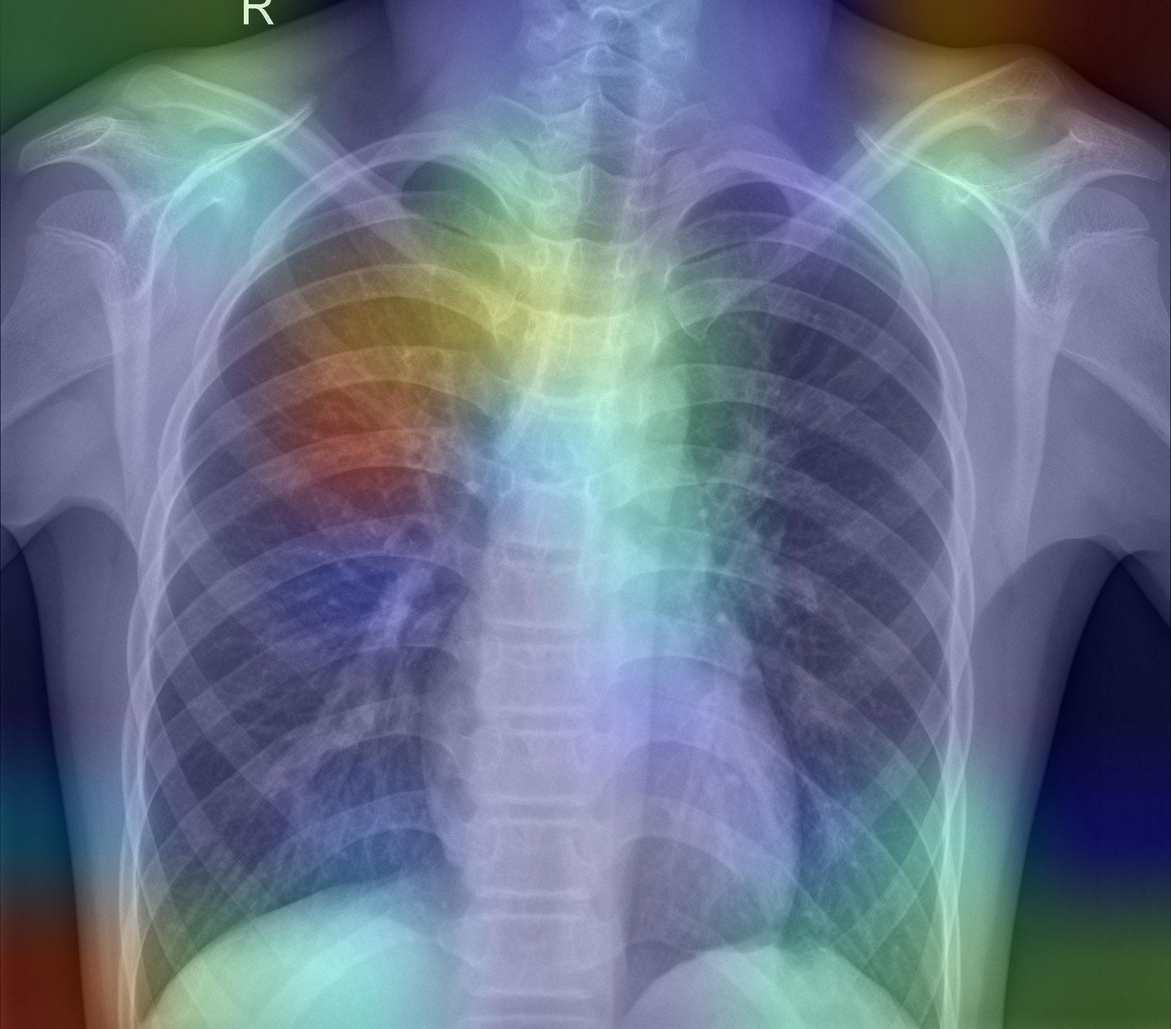
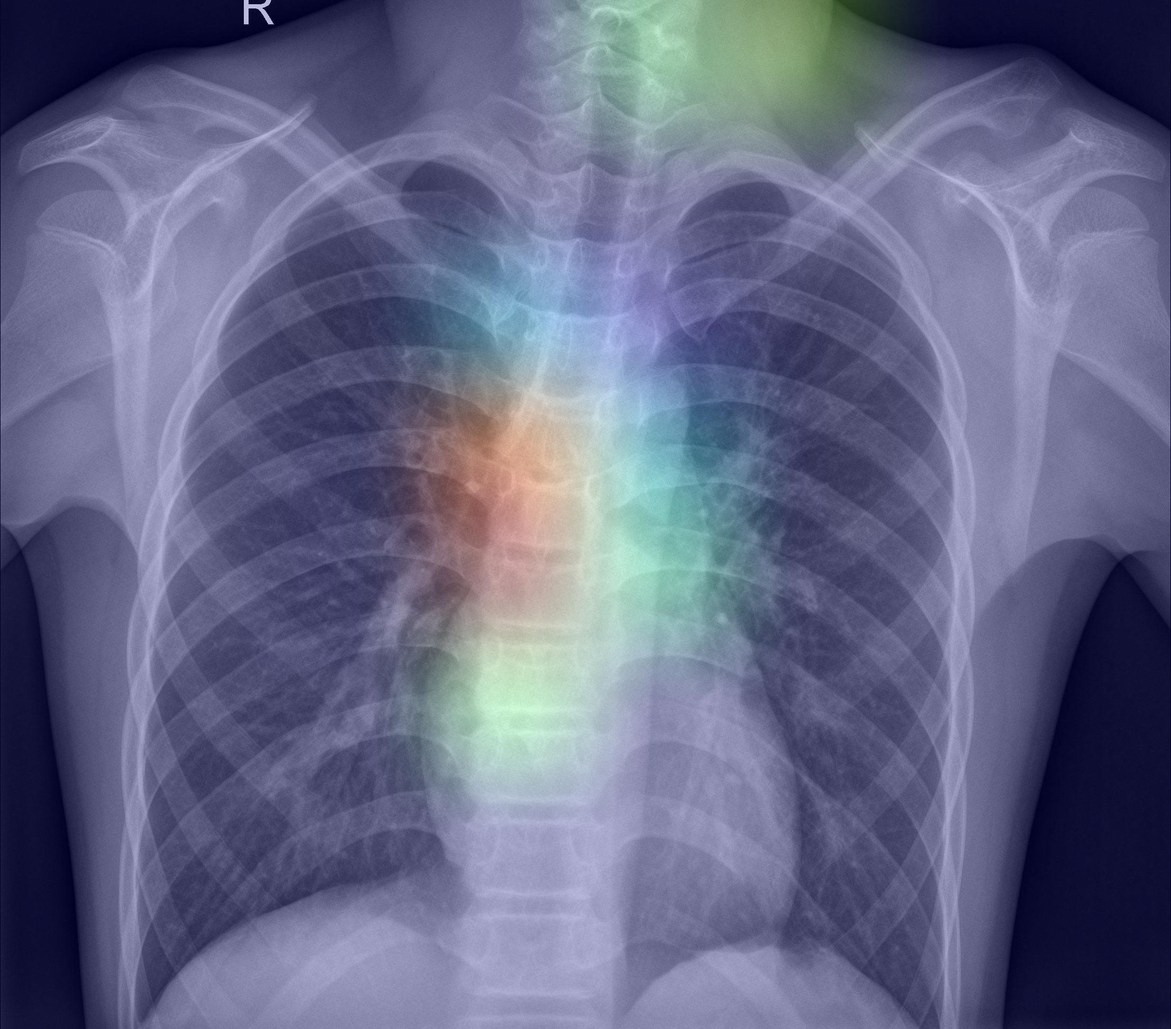
Update for GradCam

diff --git a/grad_cam.py b/grad_cam.py
@@ -11,14 +11,105 @@ import keras
 
 # constants
 IMAGE_SIZE = (256, 256)
-LAST_CONV_LAYER_NAME = "conv2d_5"
+LAST_CONV_LAYER_NAME = "separable_conv2d_8"
 IMAGE_PATH = "/home/felix/Documents/University/SS2022/ML4B/Data Set Chest X-Ray/test/NORMAL/IM-0011-0001-0002.jpeg"
 MODEL_PATH = "save_at_50.h5"
 
 
 class GradCam(object):
-    def __init__(self, img_path: str, model_path: str, last_conv_layer_name, pred_index=None):
-        raise NotImplementedError
+    """ class for GradCam implementation """
+
+    def __init__(self, path_to_model: str):
+        """ initializes GradCam and determines important variables """
+
+        # load model
+        self.MODEL = keras.models.load_model(path_to_model)
+
+        # find last convolutional layer
+        for idx in range(len(self.MODEL.layers) - 1, 0, -1):
+            if "conv" in self.MODEL.layers[idx].name:
+                self.LAST_CONVOLUTIONAL_LAYER = self.MODEL.layers[idx].name
+                break
+            elif idx == 0:
+                raise ValueError
+
+        # determine image size
+        config = self.MODEL.get_config()["layers"][0]["config"]["batch_input_shape"]
+        self.IMAGE_SIZE = config[1], config[2]
+
+    @staticmethod
+    def __load_image_array(image_path: str, image_size: ()):
+        """ loads an image as an array with additional batch """
+
+        image = keras.utils.load_img(image_path, target_size=image_size)
+        image_array = keras.utils.img_to_array(image)
+        return np.expand_dims(image_array, axis=0)
+
+    def __create_heatmap(img_path: str, model_path: str, last_conv_layer_name, pred_index=None):
+        """ creates a heatmap and determines the decision criteria of a trained model """
+
+        # create model with that maps input to output
+        model = keras.models.load_model(model_path)
+        grad_model = tf.keras.models.Model(
+            [model.inputs], [model.get_layer(last_conv_layer_name).output, model.output]
+        )
+
+        # load image as array
+        img_array = GradCam.__load_image_array(img_path, IMAGE_SIZE)
+
+        # Then, we compute the gradient of the top predicted class for our input image
+        # with respect to the activations of the last conv layer
+        with tf.GradientTape() as tape:
+            last_conv_layer_output, preds = grad_model(img_array)
+            if pred_index is None:
+                pred_index = tf.argmax(preds[0])
+            class_channel = preds[:, pred_index]
+
+        # This is the gradient of the output neuron (top predicted or chosen)
+        # with regard to the output feature map of the last conv layer
+        grads = tape.gradient(class_channel, last_conv_layer_output)
+
+        # This is a vector where each entry is the mean intensity of the gradient
+        # over a specific feature map channel
+        pooled_grads = tf.reduce_mean(grads, axis=(0, 1, 2))
+
+        # We multiply each channel in the feature map array
+        # by "how important this channel is" with regard to the top predicted class
+        # then sum all the channels to obtain the heatmap class activation
+        last_conv_layer_output = last_conv_layer_output[0]
+        heatmap = last_conv_layer_output @ pooled_grads[..., tf.newaxis]
+        heatmap = tf.squeeze(heatmap)
+
+        # For visualization purpose, we will also normalize the heatmap between 0 & 1
+        heatmap = tf.maximum(heatmap, 0) / tf.math.reduce_max(heatmap)
+        return heatmap.numpy()
+
+    def __save_and_display_gradcam(img_path, heatmap, cam_path="cam2.jpg", alpha=0.4):
+        # Load the original image
+        img = keras.utils.load_img(img_path)
+        img = keras.utils.img_to_array(img)
+
+        # Rescale heatmap to a range 0-255
+        heatmap = np.uint8(255 * heatmap)
+
+        # Use jet colormap to colorize heatmap
+        jet = cm.get_cmap("jet")
+
+        # Use RGB values of the colormap
+        jet_colors = jet(np.arange(256))[:, :3]
+        jet_heatmap = jet_colors[heatmap]
+
+        # Create an image with RGB colorized heatmap
+        jet_heatmap = keras.utils.array_to_img(jet_heatmap)
+        jet_heatmap = jet_heatmap.resize((img.shape[1], img.shape[0]))
+        jet_heatmap = keras.utils.img_to_array(jet_heatmap)
+
+        # Superimpose the heatmap on original image
+        superimposed_img = jet_heatmap * alpha + img
+        superimposed_img = keras.utils.array_to_img(superimposed_img)
+
+        # Save the superimposed image
+        superimposed_img.save(cam_path)
 
 
 def show(image_path: str, image_size: ()):
@@ -30,89 +121,14 @@ def show(image_path: str, image_size: ()):
     plt.show()
 
 
-def __load_image_array(image_path: str, image_size: ()):
-    """ loads an image as an array with additional batch """
-
-    image = keras.utils.load_img(image_path, target_size=image_size)
-    image_array = keras.utils.img_to_array(image)
-    return np.expand_dims(image_array, axis=0)
-
-
-def create_heatmap(img_path: str, model_path: str, last_conv_layer_name, pred_index=None):
-    """ creates a heatmap and determines the decision criteria of a trained model """
-
-    # create model with that maps input to output
-    model = keras.models.load_model(model_path)
-    grad_model = tf.keras.models.Model(
-        [model.inputs], [model.get_layer(last_conv_layer_name).output, model.output]
-    )
-
-    # load image as array
-    img_array = __load_image_array(img_path)
-
-    # Then, we compute the gradient of the top predicted class for our input image
-    # with respect to the activations of the last conv layer
-    with tf.GradientTape() as tape:
-        last_conv_layer_output, preds = grad_model(img_array)
-        if pred_index is None:
-            pred_index = tf.argmax(preds[0])
-        class_channel = preds[:, pred_index]
-
-    # This is the gradient of the output neuron (top predicted or chosen)
-    # with regard to the output feature map of the last conv layer
-    grads = tape.gradient(class_channel, last_conv_layer_output)
-
-    # This is a vector where each entry is the mean intensity of the gradient
-    # over a specific feature map channel
-    # pooled_grads = tf.reduce_mean(grads, axis=(0, 1, 2))
-    pooled_grads = tf.math.reduce_mean(grads, axis=(0, 1))
-
-    # We multiply each channel in the feature map array
-    # by "how important this channel is" with regard to the top predicted class
-    # then sum all the channels to obtain the heatmap class activation
-    last_conv_layer_output = last_conv_layer_output[0]
-    heatmap = last_conv_layer_output @ pooled_grads[..., tf.newaxis]
-    heatmap = tf.squeeze(heatmap)
-
-    # For visualization purpose, we will also normalize the heatmap between 0 & 1
-    heatmap = tf.maximum(heatmap, 0) / tf.math.reduce_max(heatmap)
-    return heatmap.numpy()
-
-
-def save_and_display_gradcam(img_path, heatmap, cam_path="cam2.jpg", alpha=0.4):
-    # Load the original image
-    img = keras.utils.load_img(img_path)
-    img = keras.utils.img_to_array(img)
-
-    # Rescale heatmap to a range 0-255
-    heatmap = np.uint8(255 * heatmap)
-
-    # Use jet colormap to colorize heatmap
-    jet = cm.get_cmap("jet")
-
-    # Use RGB values of the colormap
-    jet_colors = jet(np.arange(256))[:, :3]
-    jet_heatmap = jet_colors[heatmap]
-
-    # Create an image with RGB colorized heatmap
-    jet_heatmap = keras.utils.array_to_img(jet_heatmap)
-    jet_heatmap = jet_heatmap.resize((img.shape[1], img.shape[0]))
-    jet_heatmap = keras.utils.img_to_array(jet_heatmap)
-
-    # Superimpose the heatmap on original image
-    superimposed_img = jet_heatmap * alpha + img
-    superimposed_img = keras.utils.array_to_img(superimposed_img)
-
-    # Save the superimposed image
-    superimposed_img.save(cam_path)
-
-
+"""
 if __name__ == '__main__':
     # prepare image
-    img_array = __load_image_array(IMAGE_PATH)
+    img_array = __load_image_array(IMAGE_PATH, IMAGE_SIZE)
 
     # make model
     model = keras.models.load_model("save_at_50.h5")
+    g = GradCam(model)
 
     # Print what the top predicted class is
     preds = model.predict(x=img_array)
@@ -125,4 +141,4 @@ if __name__ == '__main__':
     heatmap = create_heatmap(IMAGE_PATH, MODEL_PATH, LAST_CONV_LAYER_NAME)
 
     # save heatmap
-    save_and_display_gradcam(IMAGE_PATH, heatmap)
+    # save_and_display_gradcam(IMAGE_PATH, heatmap)"""
